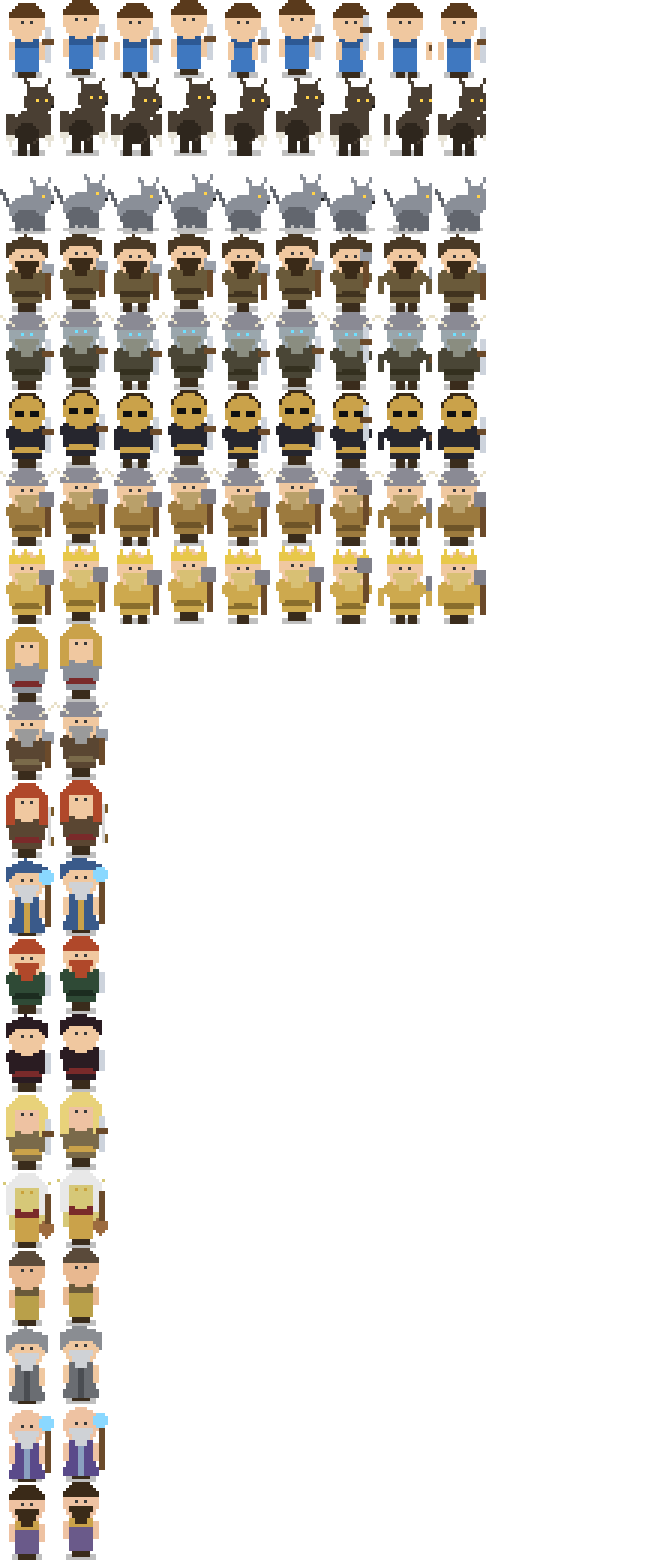
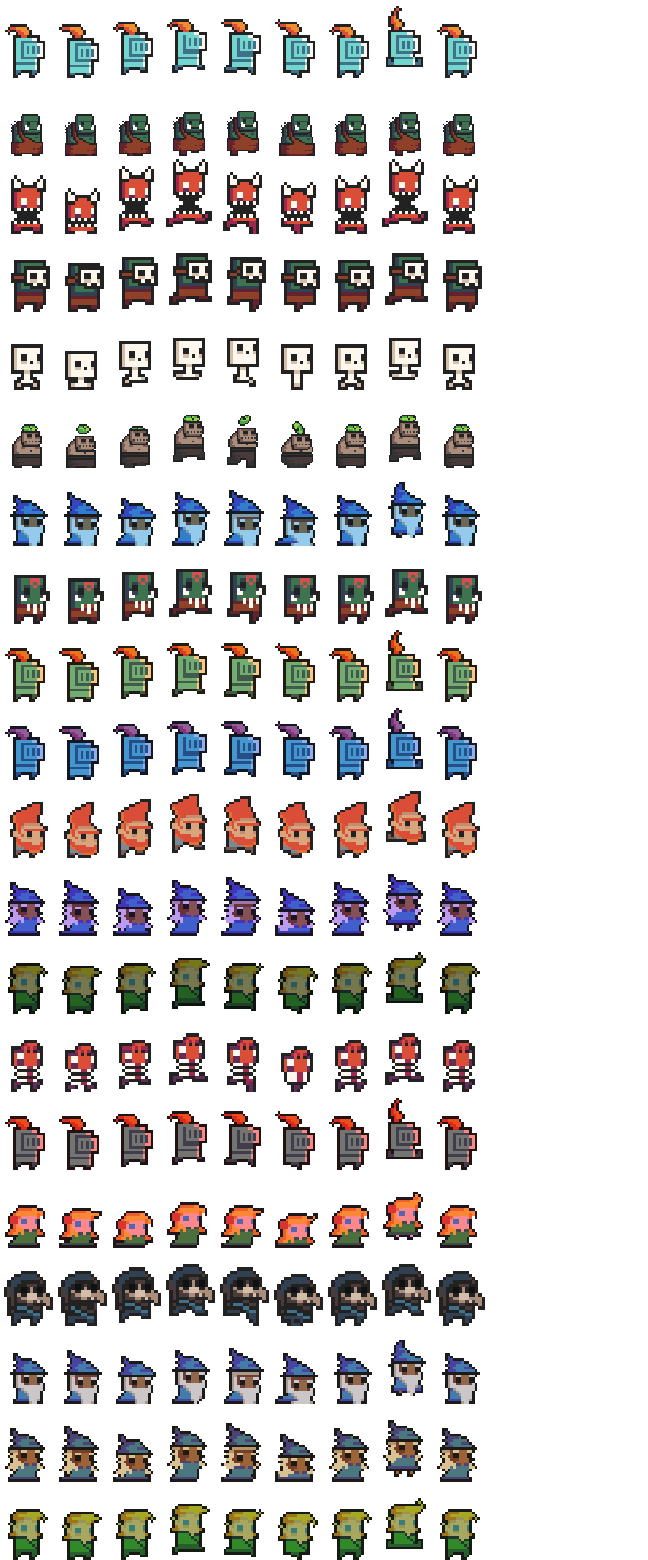
Reskin the cast with DungeonTileset II (CC0) sprites
Stage 2 of the visual overhaul: replace the procedural character atlas with real
fantasy pixel art from 0x72's CC0 DungeonTileset II, keeping gameplay untouched.

- build_assets.py now also rebuilds assets/atlas.png from the pack: each of the 20
  game entities maps to its closest 0x72 character (hero->knight, draugr->skeleton,
  bandit->masked orc, battle-mage->wizard, arngeir->grey wizard, dark brotherhood->
  hooded cultist, ...) with per-faction tints; idle/walk/attack frames packed into
  the existing 12x20 / 54x78 grid so src/rendering/Atlas.ts needs NO changes.
- Bump ASSET_VERSION to 4 (Stage 1 already served atlas.png?v=3 with the old art).
- CREDITS.md documents the second CC0 pack + rebuild steps.

diff --git a/src/config.ts b/src/config.ts
@@ -13,7 +13,7 @@ export const TILE_SIZE = 32;
 
 /** Bump when regenerating art (atlas/tiles/backgrounds) so browsers fetch the
  *  new PNGs instead of a stale cached copy. Appended as `?v=N` to asset URLs. */
-export const ASSET_VERSION = 3;
+export const ASSET_VERSION = 4;
 
 /** Internal canvas resolution (must match the <canvas> width/height in index.html). */
 export const VIEW_W = 960;

diff --git a/tools/build_assets.py b/tools/build_assets.py
@@ -2,23 +2,33 @@
 """
 Build in-game art from CC0 asset packs in assets/raw/.
 
-Currently: Sunny Land (CC0, by Luis Zuno / @ansimuz, via OpenGameArt) — used for
-the FIELD theme's tiles + parallax backgrounds. Outputs (committed):
-  assets/tiles.png       — variant grid: cols = inner,top,topL,topR,left,right,oneway; rows = field,cave,dwarven (only field filled so far)
-  assets/bg/field_back.png, field_mid.png  — parallax layers
+Packs (both CC0, no attribution required — credited in CREDITS.md as courtesy):
+  - Sunny Land (@ansimuz)            -> FIELD tiles + parallax backgrounds
+  - DungeonTileset II (@0x72)        -> character/enemy/NPC sprite atlas
 
-Other themes (cave/dwarven) keep the procedural renderer until their packs land.
-Run: python3 tools/build_assets.py   (bump ASSET_VERSION in src/config.ts after)
+Outputs (committed):
+  assets/tiles.png       — field tile variants (cols: inner,top,topL,topR,left,right,oneway)
+  assets/bg/field_*.png  — parallax layers
+  assets/atlas.png       — 12x20 grid of 54x78 cells, one entity per row, frames
+                           packed idle(0-1) / walk(2-5) / attack(6-8) to match
+                           the layout src/rendering/Atlas.ts expects (unchanged).
+
+Run: python3 tools/build_assets.py   (then bump ASSET_VERSION in src/config.ts)
 """
 import os
 from PIL import Image
 
 ROOT = os.path.dirname(os.path.dirname(os.path.abspath(__file__)))
 SL = os.path.join(ROOT, "assets", "raw", "sunny-land", "Sunny-land-assets-files", "PNG")
-T = 16  # source tile size
+DT = os.path.join(ROOT, "assets", "raw", "dungeon-tileset-ii")
+T = 16  # source tile size (Sunny Land)
 VARIANTS = ["inner", "top", "topL", "topR", "left", "right", "oneway"]
 THEMES = ["field", "cave", "dwarven"]
 
+
+# ---------------------------------------------------------------------------
+# Field tiles + parallax (Sunny Land)
+# ---------------------------------------------------------------------------
 
 def cell(img, c, r):
     return img.crop((c * T, r * T, c * T + T, r * T + T))
@@ -50,6 +60,113 @@ def build_bg():
     print("bg -> field_back.png, field_mid.png")
 
 
+# ---------------------------------------------------------------------------
+# Character atlas (DungeonTileset II)
+# ---------------------------------------------------------------------------
+
+CW, CH = 54, 78   # atlas cell (matches Atlas.ts: W*PX=54, H*PX=78)
+COLS, ROWS = 12, 20
+
+# row order MUST match SPRITES in src/rendering/Atlas.ts.
+# (game_key, 0x72_base, tint_rgb_or_None) — tints add faction flavor when a base
+# is reused (multiply over the sprite, transparent pixels untouched).
+ATLAS_MAP = [
+    ("hero", "knight_m", None),
+    ("werewolf", "ogre", None),
+    ("wolf", "chort", None),
+    ("bandit", "masked_orc", None),
+    ("draugr", "skelet", None),
+    ("draugr_overlord", "big_zombie", None),
+    ("dwarven_battlemage", "wizzard_m", (150, 210, 255)),   # arcane cyan
+    ("dwarven_warlord", "orc_shaman", None),
+    ("npc_legion", "knight_m", (255, 205, 140)),            # imperial gold
+    ("npc_stormcloaks", "knight_f", (150, 180, 255)),       # nord blue
+    ("npc_companions", "dwarf_m", None),
+    ("npc_college", "wizzard_f", (190, 160, 255)),          # violet
+    ("npc_thievesGuild", "elf_m", (120, 150, 120)),         # shadow green
+    ("npc_darkBrotherhood", "wogol", None),                 # hooded cultist
+    ("npc_blades", "knight_m", (255, 140, 140)),            # crimson order
+    ("npc_bards", "elf_f", (255, 170, 220)),                # magenta
+    ("npc_courier", "doc", None),
+    ("npc_arngeir", "wizzard_m", (205, 205, 215)),          # grey greybeard
+    ("npc_calcelmo", "wizzard_f", (220, 200, 160)),         # tan scholar
+    ("npc_merchant", "elf_m", (170, 210, 150)),             # green merchant
+]
+
+
+def _load_rects(path):
+    rects = {}
+    with open(path) as fh:
+        for line in fh:
+            p = line.split()
+            if len(p) >= 5:
+                rects[p[0]] = (int(p[1]), int(p[2]), int(p[3]), int(p[4]))
+    return rects
+
+
+def _tint(im, rgb):
+    r, g, b = rgb
+    rb, gb, bb, ab = im.split()
+    rb = rb.point(lambda v: v * r // 255)
+    gb = gb.point(lambda v: v * g // 255)
+    bb = bb.point(lambda v: v * b // 255)
+    return Image.merge("RGBA", (rb, gb, bb, ab))
+
+
+def build_atlas():
+    sheet = Image.open(os.path.join(DT, "atlas.png")).convert("RGBA")
+    rects = _load_rects(os.path.join(DT, "tile_list.txt"))
+
+    def crop(name):
+        r = rects.get(name)
+        return sheet.crop((r[0], r[1], r[0] + r[2], r[1] + r[3])) if r else None
+
+    def frame(base, kind, i):
+        return crop(f"{base}_{kind}_anim_f{i}")
+
+    def idle2(base):
+        f0 = frame(base, "idle", 0)
+        return [f0, frame(base, "idle", 1) or f0]
+
+    def run4(base):
+        rs = [frame(base, "run", i) for i in range(4)]
+        rs = [r for r in rs if r]
+        if not rs:
+            rs = idle2(base)
+        return (rs * 4)[:4]
+
+    def atk3(base):
+        i0 = frame(base, "idle", 0)
+        hit = frame(base, "hit", 0) or frame(base, "run", 1) or i0
+        return [i0, hit, i0]
+
+    atlas = Image.new("RGBA", (COLS * CW, ROWS * CH), (0, 0, 0, 0))
+
+    def place(col, row, fr, tint):
+        if fr is None:
+            return
+        w, h = fr.size
+        s = min(CW / w, CH / h) * 0.96           # fit cell, small headroom
+        nw, nh = max(1, round(w * s)), max(1, round(h * s))
+        im = fr.resize((nw, nh), Image.NEAREST)
+        if tint:
+            im = _tint(im, tint)
+        px = col * CW + (CW - nw) // 2            # centered horizontally
+        py = row * CH + (CH - nh)                 # feet anchored to cell bottom
+        atlas.alpha_composite(im, (px, py))
+
+    for row, (key, base, tint) in enumerate(ATLAS_MAP):
+        idle, run, atk = idle2(base), run4(base), atk3(base)
+        cells = [idle[0], idle[1], run[0], run[1], run[2], run[3], atk[0], atk[1], atk[2]]
+        for col, fr in enumerate(cells):
+            place(col, row, fr, tint)
+
+    out = os.path.join(ROOT, "assets", "atlas.png")
+    atlas.save(out)
+    print(f"atlas.png {atlas.size} ({len(ATLAS_MAP)} sprites) -> {out}")
+
+
 if __name__ == "__main__":
     build_tiles()
     build_bg()
+    build_atlas()

diff --git a/CREDITS.md b/CREDITS.md
@@ -12,5 +12,16 @@
 - **Rebuild:** download the pack into `assets/raw/sunny-land/` (git-ignored), then run
   `python3 tools/build_assets.py` and bump `ASSET_VERSION` in `src/config.ts`.
 
-All other art (player, enemies, NPCs, dragons, cave/Dwemer themes, HUD, particles,
-banner) is procedural/original and drawn at runtime by the renderer in `src/rendering/`.
+### DungeonTileset II — @0x72
+- **License:** CC0 1.0 (public domain — no attribution required; credited here as a courtesy)
+- **Used for:** the character **sprite atlas** (`assets/atlas.png`) — the hero, enemies,
+  and NPCs. `tools/build_assets.py` maps each game entity to its closest 0x72 character
+  (e.g. hero→knight, draugr→skeleton, battle-mage→wizard) with per-faction tints, then
+  packs idle/walk/attack frames into the grid `src/rendering/Atlas.ts` expects.
+- **Source:** https://0x72.itch.io/dungeontileset-ii (CC0). The build reads the v1.7
+  atlas + `tile_list_v1.7` frame map; drop both in `assets/raw/dungeon-tileset-ii/`
+  (git-ignored) as `atlas.png` + `tile_list.txt` to rebuild.
+
+The dragons, cave/Dwemer themes, HUD, particles, and banner remain procedural/original,
+drawn at runtime by the renderer in `src/rendering/`. The character sprites approximate
+the game's custom cast (draugr, Dwemer mages, faction NPCs) with the closest pack art.